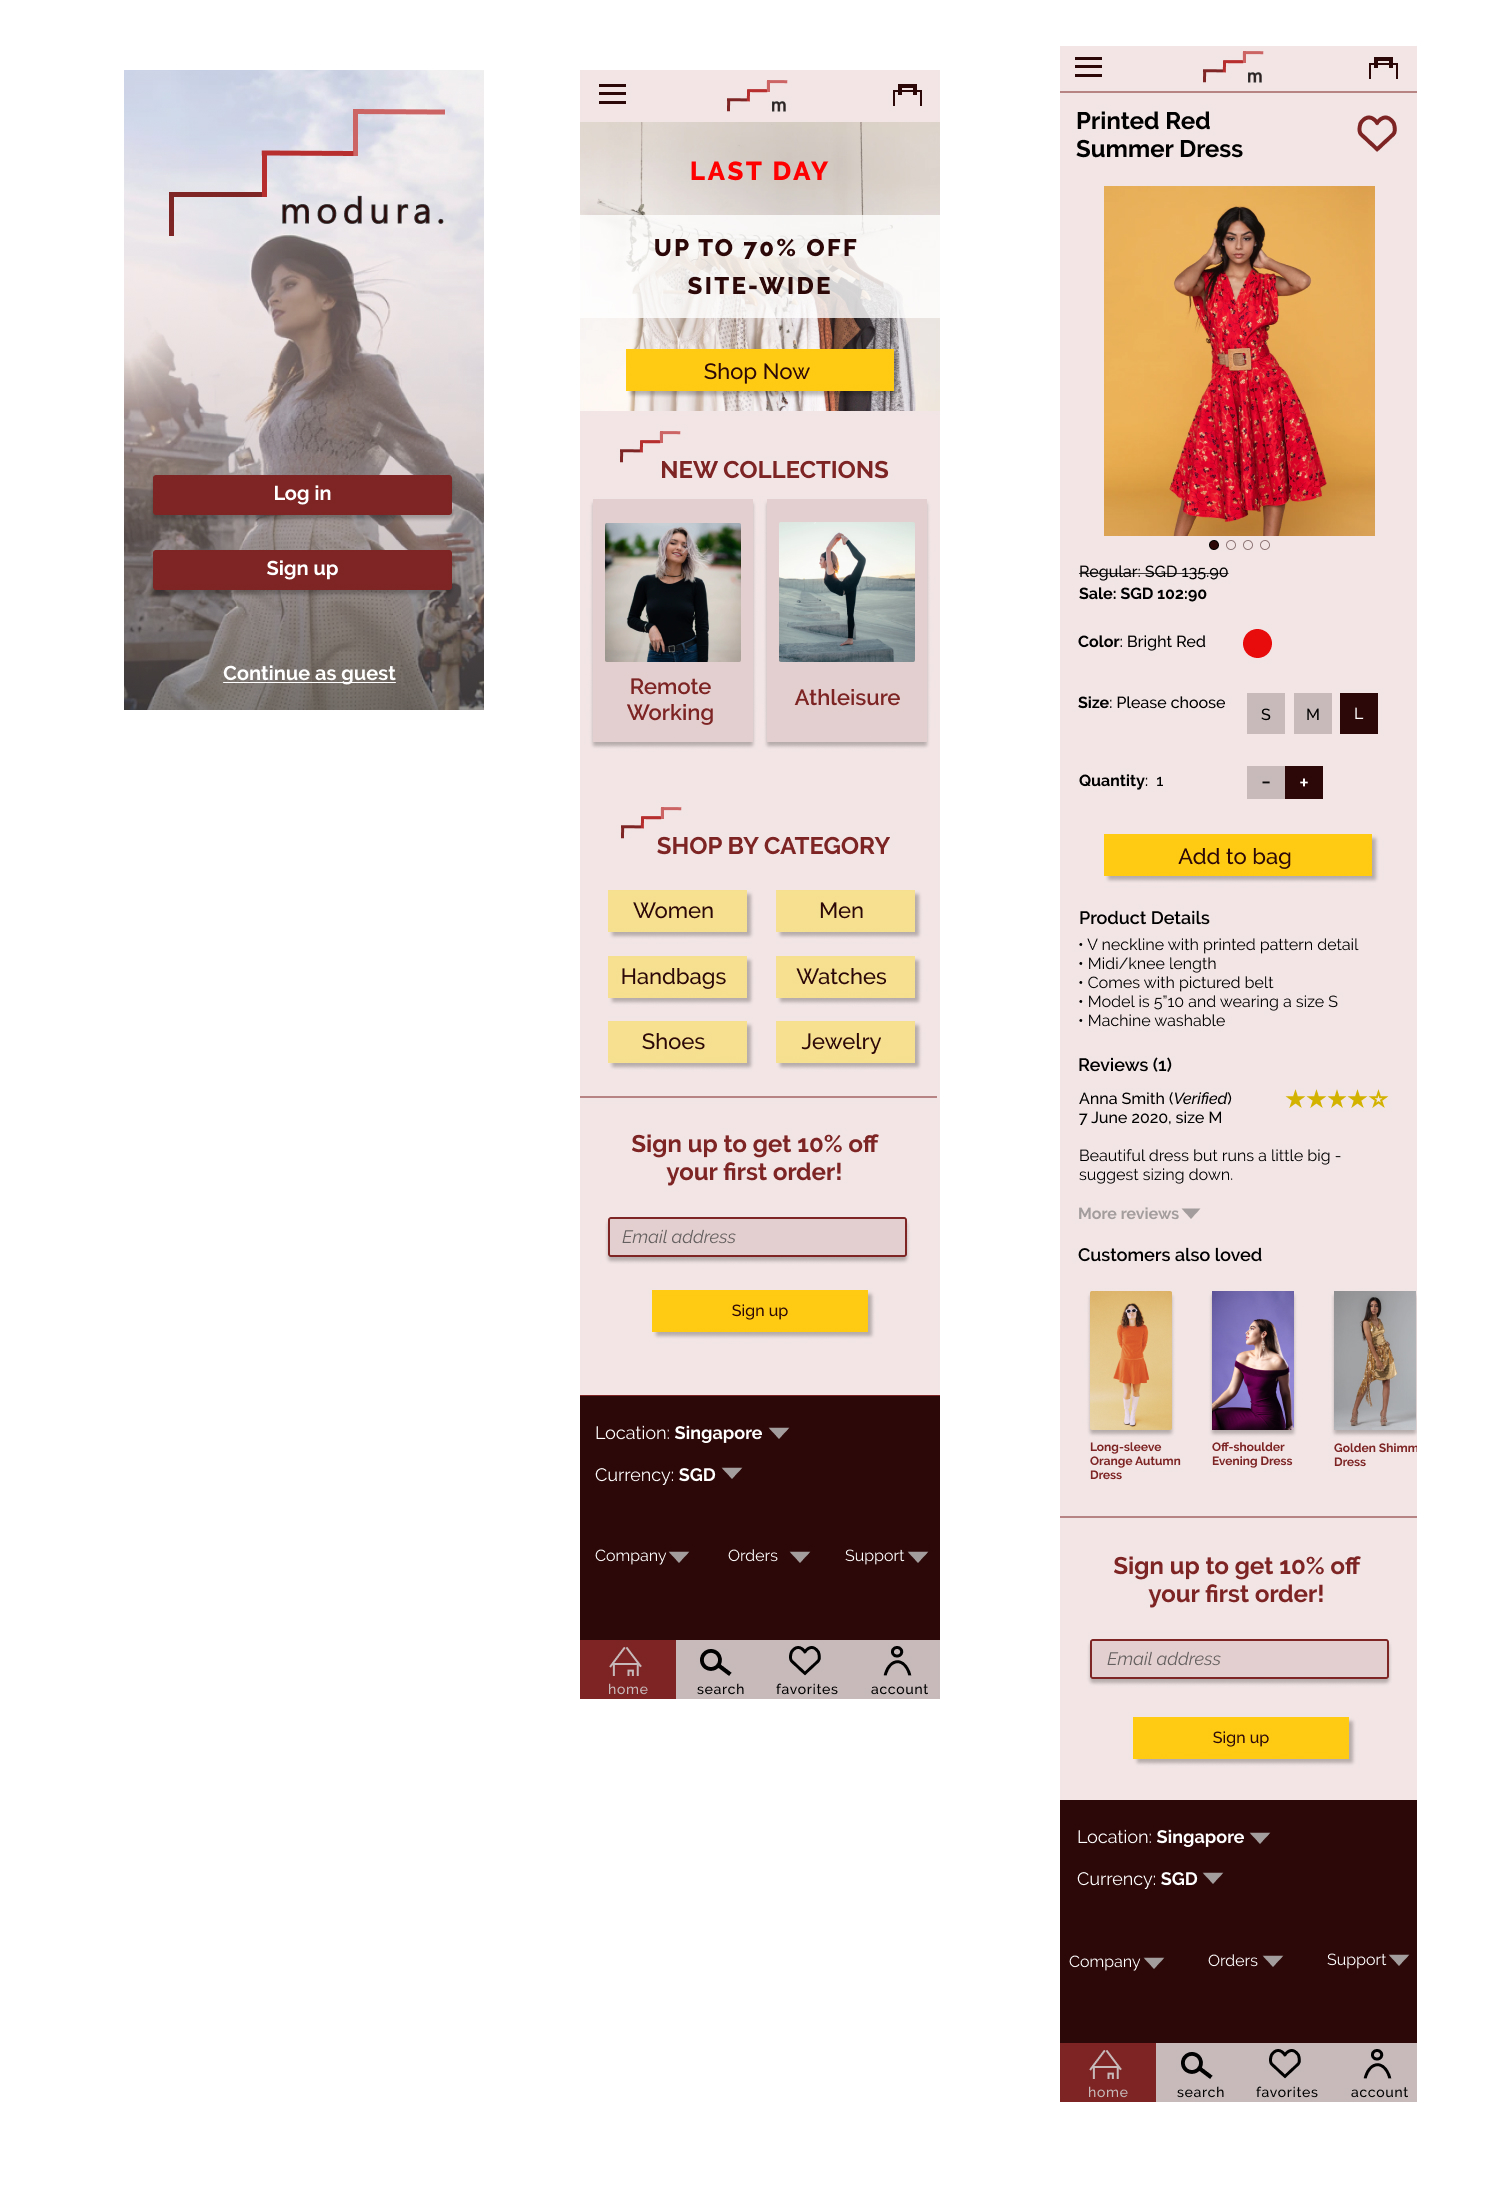
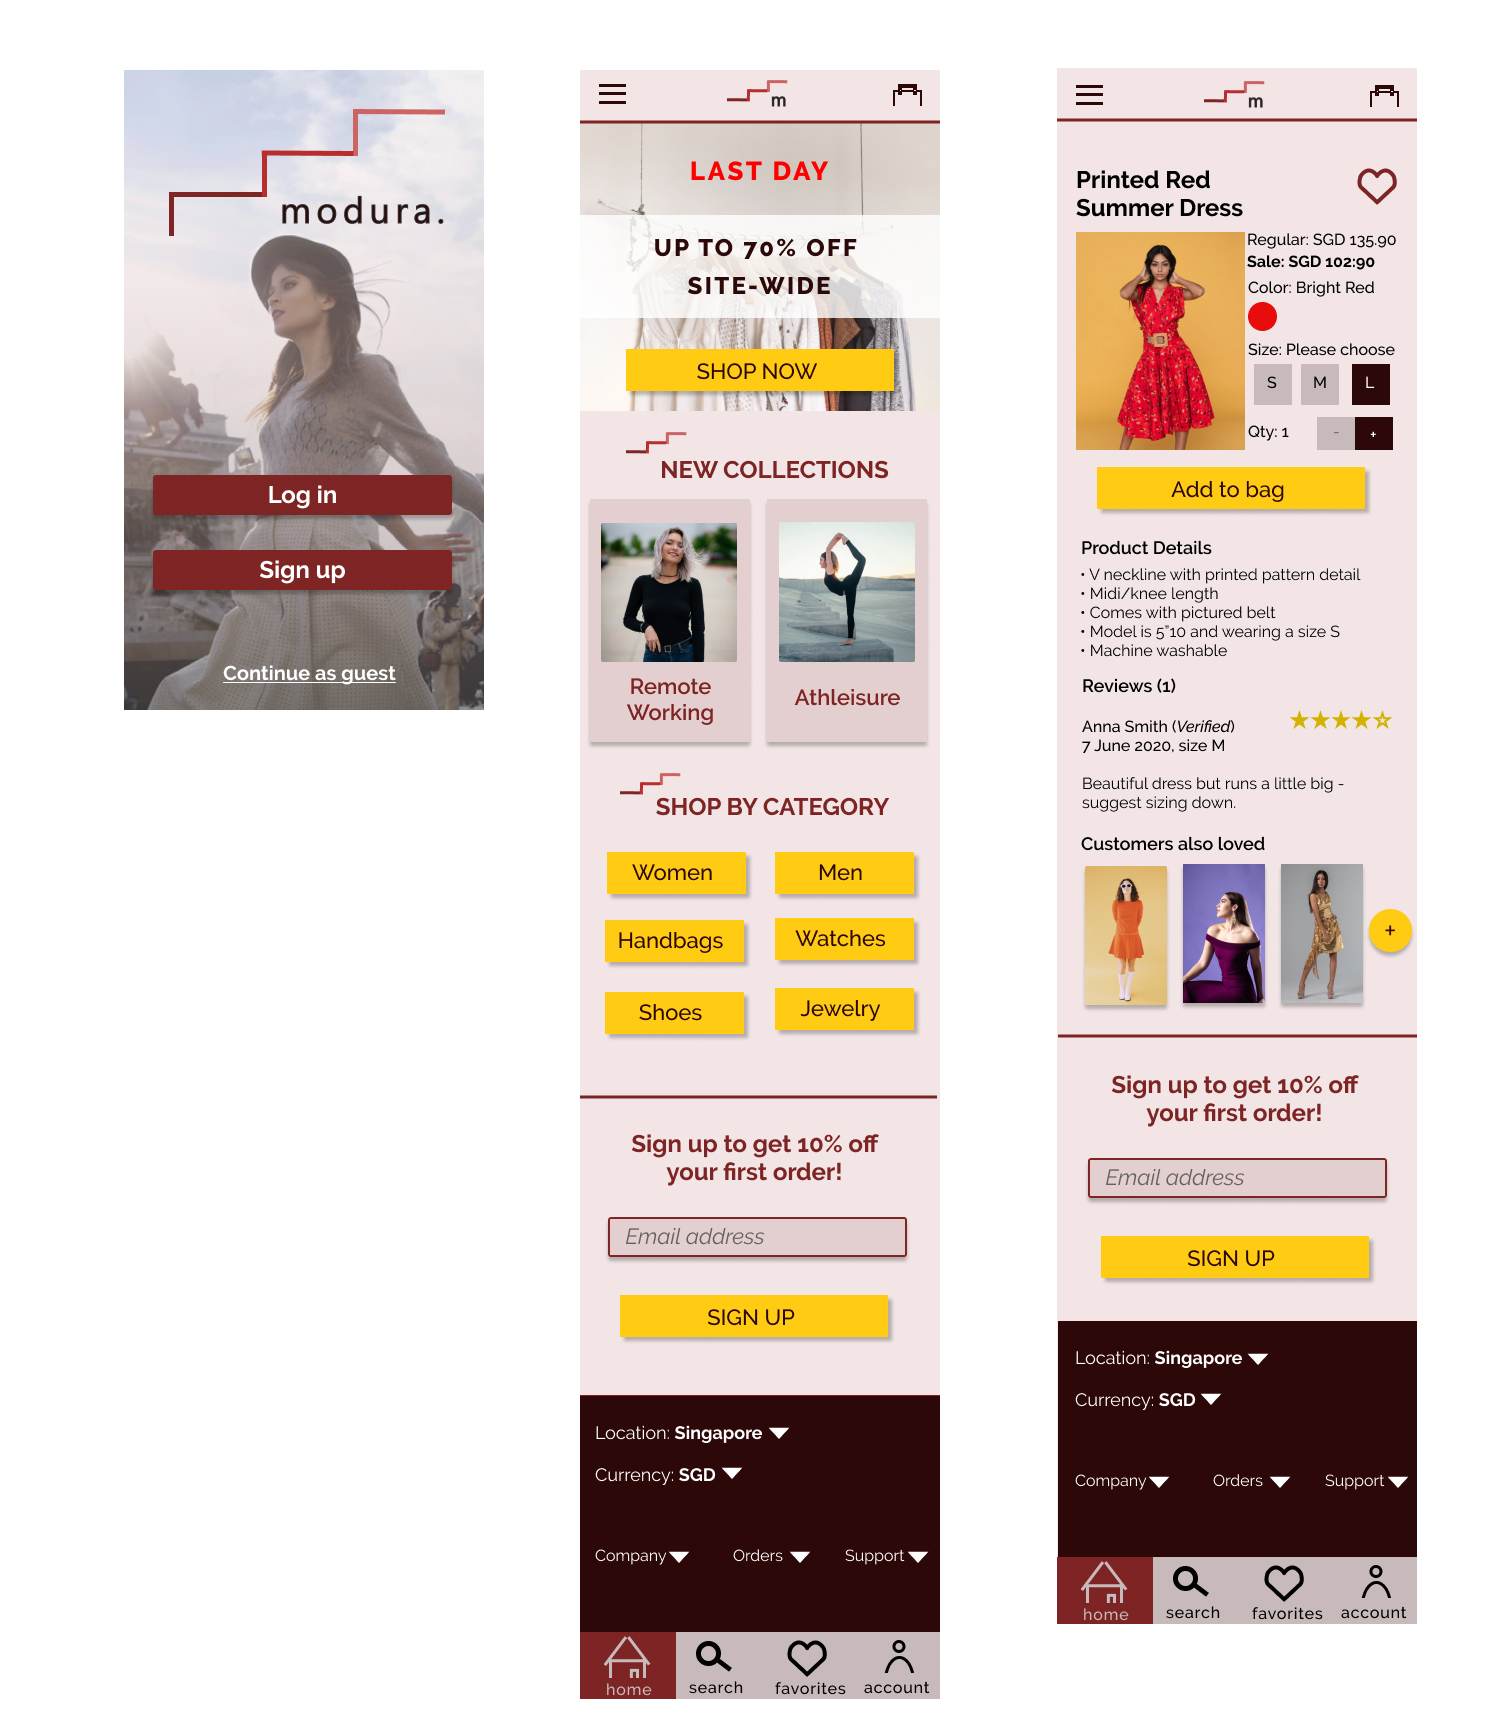
Created page

diff --git a/modura.html b/modura.html
@@ -1,0 +1,152 @@
+<!DOCTYPE html>
+<html lang="en" dir="ltr">
+
+<head>
+  <meta charset="utf-8">
+  <title> Michele's Portfolio </title>
+</head>
+
+<body>
+  <header>
+    <div>
+      <a href = "#"> Michele </a>
+      <img src="http://via.placeholder.com/600x400" alt="Michele logo">
+      <nav>
+        <ul>
+        <li><a href = "index.html"> Work </a></li>
+        <li><a href = "about.html"> About </a></li>
+        <li><a href = "#contact"> Contact </a></li>
+      </ul>
+      </nav>
+    </div>
+  </header>
+
+
+
+  <main>
+  <div>
+    <div>
+      <h1> Modura </h1>
+      <p> This was a project I worked on while undertaking Design Lab’s UX Academy Foundations course in 2020, relating to visual and UI design. I was asked to design all UI elements from scratch using Figma (logo, icon set, color palette, typography, style tile), and the final product involved producing three mobile application screens. </p>
+  </div>
+
+<div>
+  <div>
+    <h2> Design brief </h2>
+    <p> Modura is a new eCommerce clothing brand designed for trendy men and women between 18 and 25 years old. These individuals are early in their careers and are looking for an affordable solution for business casual clothing to wear to their jobs in urban areas. They are fashion-forward, and conscious of trends. They want to dress for the jobs they want without appearing overdressed.</p>
+  </div>
+
+  <div>
+    <h2> My process </h2>
+    </div>
+
+    <div>
+      <h3> Logo design </h3>
+      <p> I started by brainstorming and sketching a variety of logos for Modura by considering wordmark versions, monogram versions and logomark versions that relate to associated words such as “trendy”, “young”, “driven” and “transition”. I then chose 2 logos that I wanted to pursue and digitize and created responsive configurations of each, considering typography, spacing and aesthetics.</p>
+<div>
+      <picture> <source srcset= "img/modura/logosketch.jpg" media="(max-width:767px)">
+  <img src= "img/modura/logosketch.jpg" alt="Logo sketches">
+</picture>
+<picture> <source srcset= "img/modura/digitiselogo.jpg" media="(max-width:767px)">
+<img src= "img/modura/digitiselogo.jpg" alt="Digitise logo">
+</picture>
+    </div>
+    </div>
+
+    <div>
+      <h3> Icon design </h3>
+      <p> I created a sample set of 4 icons in a style that would complement the style of the logo to enhance brand recognition (appearance, weight and dimensions), while also ensuring that each logo is recognizable in a small icon size. Text labels were added to add clarity about the icon’s meaning and purpose.</p>
+    <div>
+      <picture> <source srcset= "img/modura/designingicons.jpg" media="(max-width:767px)">
+    <img src= "img/modura/designingicons.jpg" alt="Icon design">
+    </picture>
+    </div>
+    </div>
+
+    <div>
+      <h3> Color palette </h3>
+      <p> I created two color palettes based on my knowledge of color theory and consideration of the emotions that certain colors can evoke. I narrowed down to (i) a muted and pastel scheme including a relatively dark red, which is associated with confidence, while also using yellow as an accent/action color to add interest and playfulness so it does not feel overly formal and (ii) a refreshing light green color palette to represent the fresh, younger target audience as well as some hints of dark green to make it slightly more formal. I ended up choosing the first option as I felt the color scheme would be a more pleasant and calming experience and the pastel color scheme works well for a professional but not overly formal brand.</p>
+<div>
+      <picture> <source srcset= "img/modura/colortheory.jpg" media="(max-width:767px)">
+  <img src= "img/modura/colortheory.jpg" alt="Color palette">
+</picture>
+    </div>
+    </div>
+
+    <div>
+      <h3> Typography </h3>
+      <p> The goal was to choose a front to suit the tone of Modura. I came up with a serif header and sans-serif body option, as well as a single sans-serif font option for easy readability. Initially I decided to proceed with the former, however after experimenting with the fonts when designing the app itself, I thought having two fonts added unnecessary complexity to the text hierarchy, so I decided to proceed with the second sans-serif option instead for the app.</p>
+<div>
+      <picture> <source srcset= "img/modura/typography.jpg" media="(max-width:767px)">
+  <img src= "img/modura/typography.jpg" alt="Typography">
+</picture>
+    </div>
+    </div>
+
+    <div>
+      <h3> Style tile </h3>
+      <p> I compiled all the UI assets into a style tile to check that all the pieces work well together before diving into the design of the app interface itself.</p>
+    <div>
+      <picture> <source srcset= "img/modura/styletile.jpg" media="(max-width:767px)">
+    <img src= "img/modura/styletile.jpg" alt="Style Tile">
+    </picture>
+
+    </div>
+    </div>
+
+    <div>
+      <h3> Final app design </h3>
+      <p> I designed (i) a sign in/sign up screen, (ii) home screen showing latest offers and (iii) screen showing details of an individual item of clothing. </p>
+      <p> The iterations and changes I made from the first version to the last version consisted of the following:
+<ul>
+  <li> Ensuring consistency in typography and color across all call-to-action buttons, and de-emphasizing non call-to-action buttons (including category buttons and footer arrows) </li>
+  <li> Adjusting footer and icon size for a more minimalistic and professional look</li>
+  <li> Responsive design changes - rearranging the individual clothing item screen so that the elements are displayed vertically (for mobile) instead of horizontally (which would be more suitable for a desktop version) </li>
+  <li> Allowing the option to see more reviews </li>
+  <li> Addition of the titles of the related clothing items</li>
+  <li> Using thinner strokes and dividers for a more professional look </li>
+</ul>
+      </p>
+    <div>
+      <h4> First version of the app </h4>
+      <picture> <source srcset= "img/modura/finalappbefore.jpg" media="(max-width:767px)">
+    <img src= "img/modura/finalappbefore.jpg" alt="App Before">
+    </picture>
+    <h4> Final version of the app </h4>
+    <picture> <source srcset= "img/modura/finalappafter.jpg" media="(max-width:767px)">
+  <img src= "img/modura/finalappafter.jpg" alt="App After">
+  </picture>
+    </div>
+    </div>
+
+    </main>
+
+
+
+  <footer id="contact">
+    <div>
+      <h2> Get in touch </h2>
+      <p> Say hello! Call me at <a href = "tel: +65 84281519"> +65 8428 1519 </a> or drop me an email </p>
+      <div>
+        <a href = "mailto:ko.micheletw@gmail.com"> Email me </a>
+      </div>
+      <div>
+    <a href="https://www.linkedin.com/in/micheleko/" target="_blank">
+        <svg enable-background="new 0 0 32 32" height="32px" id="Layer_1" version="1.0" viewBox="0 0 32 32" width="32px" xml:space="preserve" xmlns="http://www.w3.org/2000/svg" xmlns:xlink="http://www.w3.org/1999/xlink"><g><path d="M32,30c0,1.104-0.896,2-2,2H2c-1.104,0-2-0.896-2-2V2c0-1.104,0.896-2,2-2h28c1.104,0,2,0.896,2,2V30z" fill="#007BB5"/><g><rect fill="#FFFFFF" height="14" width="4" x="7" y="11"/><path d="M20.499,11c-2.791,0-3.271,1.018-3.499,2v-2h-4v14h4v-8c0-1.297,0.703-2,2-2c1.266,0,2,0.688,2,2v8h4v-7    C25,14,24.479,11,20.499,11z" fill="#FFFFFF"/><circle cx="9" cy="8" fill="#FFFFFF" r="2"/></g></g><g/><g/><g/><g/><g/><g/></svg>
+    </a>
+    <a href="ANOTHER-SOCIAL-LINK">
+        <img src="viaplaceholder.com/32x32">
+    </a>
+    <a href="ANOTHER-SOCIAL-LINK">
+        <img src="viaplaceholder.com/32x32">
+    </a>
+    </div>
+    <p> Copyright Michele Ko 2020 </p>
+  </div>
+  </footer>
+
+
+
+</body>
+
+</html>

diff --git a/index.html b/index.html
@@ -42,7 +42,7 @@
       <p> Design brief: An eCommerce clothing brand designed for trendy men and women between 18 and 25 years old who are looking for affordable solutions for business casual clothing. They are fashion-forward and conscious of trends, and want to dress for the jobs they want without appearing overdressed. </p>
       <p> Software used: Figma </p>
       <p> Skills used: Sketching, logo design, icon design, typography, color theory, style tile creation, mobile application UI and UX from scratch </p>
-<a href = "#"> View project </a>
+<a href = "modura.html"> View project </a>
     </div>
   </div>
   <div>
